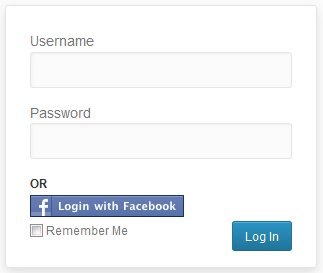
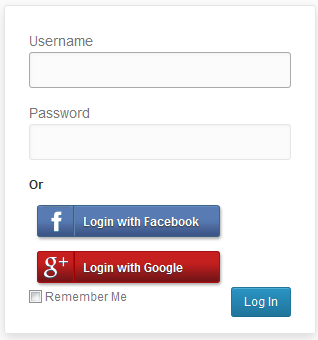
commiting v1.3
git-svn-id: https://plugins.svn.wordpress.org/facebookall/trunk@800958 b8457f37-d9ea-0310-8a92-e5e31aec5664

diff --git a/facebookall_admin.php b/facebookall_admin.php
@@ -93,14 +93,13 @@ function facebookall_save_admin_settings($fball_settings) {
   $fball_settings['facepile_color'] = ((isset($fball_settings['facepile_color']) && in_array($fball_settings['facepile_color'], array('1', '0'))) ? $fball_settings['facepile_color'] : '1');
   $fball_settings['facepile_size'] = ((isset($fball_settings['facepile_size']) && in_array($fball_settings['facepile_size'], array('0', '1', '2'))) ? $fball_settings['facepile_size'] : '1');
   $fball_settings['enable_recbar'] = ((isset($fball_settings['enable_recbar']) && in_array($fball_settings['enable_recbar'], array('1', '0'))) ? $fball_settings['enable_recbar'] : '0');
-  $fball_settings['recbar_pageurl'] = trim($fball_settings['recbar_pageurl']);
   $fball_settings['recbar_readtime'] = trim($fball_settings['recbar_readtime']);
   $fball_settings['recbar_appid'] = trim($fball_settings['recbar_appid']);
-  $fball_settings['recbar_verb'] = ((isset($fball_settings['recbar_verb']) && in_array($fball_settings['recbar_verb'], array('1', '0'))) ? $fball_settings['facepile_color'] : '1');
-  $fball_settings['recbar_side'] = ((isset($fball_settings['recbar_side']) && in_array($fball_settings['recbar_side'], array('0', '1'))) ? $fball_settings['facepile_size'] : '1');
+  $fball_settings['recbar_verb'] = ((isset($fball_settings['recbar_verb']) && in_array($fball_settings['recbar_verb'], array('1', '0'))) ? $fball_settings['recbar_verb'] : '1');
+  $fball_settings['recbar_side'] = ((isset($fball_settings['recbar_side']) && in_array($fball_settings['recbar_side'], array('0', '1'))) ? $fball_settings['recbar_side'] : '1');
 
   
-	foreach(array('loginpage', 'registerpage', 'commentpage', 'comment_top', 'comment_bottom', 'comment_homepage', 'comment_posts', 'comment_pages', 'comment_postecerpts', 'comment_archives', 'comment_feed', 'share_facebook','share_linkedin', 'share_twitter', 'share_pin', 'share_gplus', 'share_digg', 'share_top', 'share_bottom', 'share_home','share_posts', 'share_pages', 'share_postexcerpts', 'share_archives', 'share_feed') as $val){
+	foreach(array('loginpage', 'registerpage', 'commentpage', 'comment_top', 'comment_bottom', 'comment_homepage', 'comment_posts', 'comment_pages', 'comment_postecerpts', 'comment_archives', 'comment_feed', 'share_facebook','share_linkedin', 'share_twitter', 'share_pin', 'share_gplus', 'share_digg', 'share_top', 'share_bottom', 'share_home','share_posts', 'share_pages', 'share_postexcerpts', 'share_archives', 'share_feed', 'rec_posts', 'rec_pages', 'rec_home') as $val){
 		
 	}
 	return $fball_settings;
@@ -117,8 +116,8 @@ function facebookall_admin_settings() {
       <br>
       </div>
       <h2><?php _e('Facebook All Admin Settings', 'facebookall');?></h2><br />
-	  <div style="background-color: #FFFFE0; border:1px solid #E6DB55; padding:5px; margin-bottom:5px; width: 1060px; font-size:13px;">
-			 <?php _e('Please upgrade your plugin with more new feature ...', 'facebookall') ?> <a target="_blank" href="http://www.sourceaddons.com/wp_feature.php" >  <?php _e('click here', 'facebookall') ?> </a>.
+	  <div style=" border:1px solid #f00; padding:5px; margin-bottom:5px; width: 1060px; font-size:13px; font-weight:bold; color:#FF0000;" class="fball_updatemsg_box">
+			 <?php _e('Please upgrade your plugin google login and more new feature ...', 'facebookall') ?> <a target="_blank" href="http://www.sourceaddons.com/" >  <?php _e('click here', 'facebookall') ?> </a>.
 		</div>
       <div id="fballwelcome-panel" class="fballwelcome-panel">
         <div class="fballwelcome-panel-content">
@@ -367,7 +366,7 @@ function facebookall_admin_settings() {
                        </tr>
                       <tr class="fballrow_white">
                        <th scope="fballrow"><?php _e('Post Message','facebookall');?></th>
-                       <td><textarea rows="3" cols="87"  name="fball_settings[new_post_message]" value="<?php echo (isset($fball_settings['new_post_message']) ? htmlspecialchars ($fball_settings['new_post_message']) : ''); ?>"/></textarea></td>
+                       <td><textarea rows="3" cols="87"  name="fball_settings[new_post_message]"><?php echo (isset($fball_settings['new_post_message']) ? htmlspecialchars ($fball_settings['new_post_message']) : ''); ?></textarea></td>
                        </tr>
                        <tr >
                         <th scope="fballrow"><?php _e('Post Picture Url','facebookall');?></th>
@@ -377,7 +376,7 @@ function facebookall_admin_settings() {
                          <tr >
                          <th scope="fballrow"><?php _e('Post Description','facebookall');?></th>
                          <td>
-                         <textarea rows="3" cols="87"  name="fball_settings[new_post_desc]" value="<?php echo (isset($fball_settings['new_post_desc']) ? htmlspecialchars ($fball_settings['new_post_desc']) : ''); ?>"/></textarea></td>
+                         <textarea rows="3" cols="87"  name="fball_settings[new_post_desc]"><?php echo (isset($fball_settings['new_post_desc']) ? htmlspecialchars ($fball_settings['new_post_desc']) : ''); ?></textarea></td>
                         </tr>
                          </table>
 						 <table class="form-table facebookall_table">
@@ -407,7 +406,7 @@ function facebookall_admin_settings() {
                        </tr>
                       <tr class="fballrow_white">
                        <th scope="fballrow"><?php _e('Post Message','facebookall');?></th>
-                       <td><textarea rows="3" cols="87"  name="fball_settings[old_post_message]" value="<?php echo (isset($fball_settings['old_post_message']) ? htmlspecialchars ($fball_settings['old_post_message']) : ''); ?>"/></textarea></td>
+                       <td><textarea rows="3" cols="87"  name="fball_settings[old_post_message]"><?php echo (isset($fball_settings['old_post_message']) ? htmlspecialchars ($fball_settings['old_post_message']) : ''); ?></textarea></td>
                        </tr>
                        <tr >
                         <th scope="fballrow"><?php _e('Post Picture Url','facebookall');?></th>
@@ -417,7 +416,7 @@ function facebookall_admin_settings() {
                          <tr >
                          <th scope="fballrow"><?php _e('Post Description','facebookall');?></th>
                          <td>
-                         <textarea rows="3" cols="87"  name="fball_settings[old_post_desc]" value="<?php echo (isset($fball_settings['old_post_desc']) ? htmlspecialchars ($fball_settings['old_post_desc']) : ''); ?>"/></textarea></td>
+                         <textarea rows="3" cols="87"  name="fball_settings[old_post_desc]"><?php echo (isset($fball_settings['old_post_desc']) ? htmlspecialchars ($fball_settings['old_post_desc']) : ''); ?></textarea></td>
                         </tr>
                          </table>
                          </div>
@@ -693,11 +692,14 @@ function facebookall_admin_settings() {
                          <td><input name="fball_settings[enable_recbar]" type="radio" <?php echo $yesenable_recbar;?>value="1" />&nbsp;&nbsp;<?php _e('Yes','facebookall');?> &nbsp;&nbsp;&nbsp;&nbsp;&nbsp;&nbsp;
                          <input name="fball_settings[enable_recbar]" type="radio" <?php echo $noenable_recbar;?>value="0" />&nbsp;&nbsp;<?php _e('No','facebookall');?></td>
                        </tr>
-						 <tr >
-                        <th scope="fballrow"><?php _e('Domain','facebookall');?></th>
-                         <td><input size="90" type="text" name="fball_settings[recbar_pageurl]" value="<?php echo (isset($fball_settings['recbar_pageurl']) ? htmlspecialchars ($fball_settings['recbar_pageurl']) : ''); ?>"/></td>
-                       </tr>
-                          <tr >
+						 <tr>
+                         <th scope="fballrow"><?php _e('Show Recommendations Bar On', 'facebookall');?></th>
+                         <td>
+                         <input type="checkbox"  name="fball_settings[rec_posts]" value="1" <?php echo isset($fball_settings['rec_posts']) && $fball_settings['rec_posts'] == 1 ? 'checked' : '' ?> /> &nbsp;&nbsp;<label><?php _e('Posts', 'facebookall');?></label><br />
+						 <input type="checkbox"  name="fball_settings[rec_pages]" value="1" <?php echo isset($fball_settings['rec_pages']) && $fball_settings['rec_pages'] == 1 ? 'checked' : '' ?> /> &nbsp;&nbsp;<label><?php _e('Pages', 'facebookall');?></label><br />
+                         <input type="checkbox"  name="fball_settings[rec_home]" value="1" <?php echo isset($fball_settings['rec_home']) && $fball_settings['rec_home'] == 1 ? 'checked' : '' ?> /> &nbsp;&nbsp;<label><?php _e('Home Page', 'facebookall');?></label>
+                        </td>
+                        </tr>                          <tr >
                         <th scope="fballrow"><?php _e('Read Time','facebookall');?></th>
                          <td><input size="90" type="text" name="fball_settings[recbar_readtime]" value="<?php echo (isset($fball_settings['recbar_readtime']) ? htmlspecialchars ($fball_settings['recbar_readtime']) : '30'); ?>"/></td>
                        </tr>

diff --git a/helpers/facebookall_view.php b/helpers/facebookall_view.php
@@ -7,11 +7,11 @@ function facebookall_render_facebook_button() {
   $fball_button = '<div class="fball_ui">
         <div class="fball_form" title="Facebook All">';
 		if (!empty($fball_settings ['custom_button'])) {
-		  $fball_button .= '<a href="javascript:void(0);" title="Login using Facebook" onclick="FbAll.facebookLogin();" class="fball_login_facebook"><img src="'.$fball_settings ['custom_button'].'" style="cursor:pointer;"></a>';
+		  $fball_button .= '<a href="javascript:void(0);" title="Login with Facebook" onclick="FbAll.facebookLogin();" class="fball_login_facebook"><img src="'.$fball_settings ['custom_button'].'" style="cursor:pointer;"></a>';
 		}
 		else {
 		  $fball_button .= '<span id="fball-facebook-login">
-        <a href="javascript:void(0);" title="Login using Facebook" onclick="FbAll.facebookLogin();" class="fball_login_facebook"><span>'.$fball_settings ['fbicon_text'].'</span></a></span>';
+        <a href="javascript:void(0);" title="Login with Facebook" onclick="FbAll.facebookLogin();" class="fball_login_facebook"><span>'.$fball_settings ['fbicon_text'].'</span></a></span>';
 		}
 	$fball_button .= '</div>
         <div id="fball_facebook_auth">
@@ -40,7 +40,8 @@ function facebookall_render_widget_button() {
 		}
 		echo "</div><div style='float:left; margin-left:10px;padding:1px;'>"; 
 		echo $user->user_login;
-		echo '<br/><a href="'.wp_logout_url().'">'; _e('Log Out', 'facebookall');'</a></div></div>'; 
+		echo '<br/><a href="'.wp_logout_url().'">'; _e('Log Out', 'facebookall');
+		echo '</a></div><div style="clear:both;"></div></div>'; 
 	}
 	else {
 	  facebookall_render_facebook_button();
@@ -146,24 +147,23 @@ function facebookall_render_fanbox() {
  */
 function facebookall_render_facepile() {
   $fball_settings = get_option('fball_settings');?>
-<iframe src="//www.facebook.com/plugins/facepile.php?href=<?php echo urlencode($fball_settings['facepile_pageurl'])?>&amp;size=<?php if($fball_settings['facepile_size'] == '0') { echo 'small';}elseif($fball_settings['facepile_size'] == '1') {echo 'medium';}else {echo 'large';}?>&amp;max_rows=<?php echo $fball_settings['facepile_numrows']?>&amp;width=<?php echo $fball_settings['facepile_width']?>&amp;colorscheme=<?php if($fball_settings['facepile_color'] == '1') { echo 'light';}else {echo 'dark';}?>" scrolling="no" frameborder="0" style="border:none; overflow:hidden; width:<?php echo $fball_settings['facepile_width']?>px;" allowTransparency="true"></iframe>
+  <div class="fb-facepile" data-href="<?php echo trim($fball_settings['facepile_pageurl'])?>" data-width="<?php echo $fball_settings['facepile_width']?>" data-max-rows="<?php echo $fball_settings['facepile_numrows']?>" data-colorscheme="<?php if($fball_settings['facepile_color'] == '1') { echo 'light';}else {echo 'dark';}?>" data-size="<?php if($fball_settings['facepile_size'] == '0') { echo 'small';}elseif($fball_settings['facepile_size'] == '1') {echo 'medium';}else {echo 'large';}?>" data-show-count="true"></div>
 <?php }
 
 /*
  * Create recommendations bar.
  */
-function facebookall_render_recommendbar() {
+function facebookall_render_recommendbar($content) {
   $fball_settings = get_option('fball_settings');
-  if ($fball_settings['enable_recbar'] == '1') {
-  ?>
- <div id="fb-root"></div>
-<script>(function(d, s, id) {
-  var js, fjs = d.getElementsByTagName(s)[0];
-  if (d.getElementById(id)) return;
-  js = d.createElement(s); js.id = id;
-  js.src = "//connect.facebook.net/en_US/all.js#xfbml=1&appId=<?php echo $fball_settings['recbar_appid'];?>";
-  fjs.parentNode.insertBefore(js, fjs);
-}(document, 'script', 'facebook-jssdk'));</script>
-<div class="fb-recommendations-bar" data-site="<?php echo $fball_settings['recbar_pageurl'];?>" data-trigger="onvisible" data-read-time="<?php echo $fball_settings['recbar_readtime'];?>" data-action="<?php if($fball_settings['recbar_verb'] == '1') { echo 'like';}else {echo 'recommend';}?>" data-side="<?php if($fball_settings['recbar_side'] == '1') { echo 'left';}else {echo 'right';}?>"></div>
-<?php }}
-add_action('wp_footer','facebookall_render_recommendbar');
+  if ($fball_settings['enable_recbar'] == '1') { 
+  $side = ($fball_settings['recbar_side'] == '1' ? 'left' : 'right');
+  $verb = ($fball_settings['recbar_verb'] == '1' ? 'like' : 'recommend');
+if ((is_single() && $fball_settings['rec_posts'] == '1') ||
+      (is_page() && $fball_settings['rec_pages'] == '1') ||
+      ((is_home() || is_front_page()) && $fball_settings['rec_home'] == '1')) {
+		$content .= "<div class=\"fb-recommendations-bar\" data-href=\"".get_permalink()."\" data-read-time=\"".$fball_settings['recbar_readtime']."\" data-side=\"".$side."\" data-action=\"".$verb."\"></div>";
+     }
+return $content;
+ }
+}
+add_filter ('the_content', 'facebookall_render_recommendbar', 1);

diff --git a/helpers/facebookall_share.php b/helpers/facebookall_share.php
@@ -6,21 +6,14 @@
 function facebookall_get_fb_comments() {
   $fball_settings = get_option('fball_settings');
   if ($fball_settings['enablecomments'] == '1') {
-		  $comment_script = '<div id="fb-root"></div>
-<script>(function(d, s, id) {
-  var js, fjs = d.getElementsByTagName(s)[0];
-  if (d.getElementById(id)) return;
-  js = d.createElement(s); js.id = id;
-  js.src = "//connect.facebook.net/en_US/all.js#xfbml=1&appId='.$fball_settings['comment_appid'].'";
-  fjs.parentNode.insertBefore(js, fjs);
-}(document, "script", "facebook-jssdk"));</script>';
+		  
     $show_comments = '';
       if (!empty($fball_settings['comment_title'])) {
 	    $show_comments .= '<div style="margin:0"><b>'.ucfirst($fball_settings['comment_title']).'</b></div>';
 	  }
    if ($fball_settings['comment_color'] == '0') {$colorscheme = 'dark';}
    else {$colorscheme = 'light';}
-   $show_comments .= $comment_script.'<div class="fb-comments" data-href="'. facebookall_get_current_url() .'" data-width="'.$fball_settings['comment_width'].'" data-num-posts="'.$fball_settings['comment_numpost'].'" data-colorscheme="'.$colorscheme.'"></div>';
+   $show_comments .= '<div class="fb-comments" data-href="'. facebookall_get_current_url() .'" data-width="'.$fball_settings['comment_width'].'" data-num-posts="'.$fball_settings['comment_numpost'].'" data-colorscheme="'.$colorscheme.'"></div>';
    return $show_comments;
   }
   else {
@@ -73,16 +66,18 @@ global $post;
     $output = "";
    
 	//Output
-    $output .= "<style>.fballshare_left {float:left}.fballshare {margin:0px;text-align:center}.fball_fblike{width:95px;}.fball_pinterest, .fball_linkedin, .fball_digg {margin-right:10px;} .fballshare .fball_fblike span{width: 535px!important;}";
+    $output .= "<style>.fballshare_left {float:left}.fballshare {margin:0px;text-align:center}.fball_fblike{width:105px;}.fball_pinterest, .fball_linkedin, .fball_digg {margin-right:10px;} .fballshare .fball_fblike span{width: 535px!important;}";
 	if($layout_style=='1') {
-	$output .= ".fball_plusone {width:70px}.fball_twitter {width:106px}.fball_digg {margin-left:25px}";
+	$output .= ".fball_plusone {width:70px;margin-top:5px;}.fball_twitter {width:90px;margin-top:5px;}.fball_digg {margin-left:25px;margin-top:5px;}.fball_pinterest, .fball_linkedin{margin-top:5px;}";
 	 } 
 	 else {
-	 $output .= ".fball_twitter {width:66px}.fball_plusone {width:62px;margin-left:5px}.fball_pinterest{margin-top:20px}";
+	 $output .= ".fball_fblike{width:70px;margin-top:1px;}.fball_twitter {width:66px;}.fball_plusone {width:62px;margin-left:5px}.fball_pinterest{margin-top:20px}";
 	 }
 	 
 $output .="</style><div class='fballshare'>";
-    
+    if ($fball_settings['share_facebook']== '1' ) {
+	    $output .= "<div class='fball_fblike fballshare_left'><div class='fb-share-button' data-href='" . get_permalink() . "' data-type='" . $like_btn_style . "'></div></div>";
+    }
     if ($fball_settings['share_linkedin']== '1') {
       $output .= "<div class='fball_linkedin fballshare_left'><script type='IN/Share' data-url=" . get_permalink() . " data-counter='" . $linkedin_style . "'></script></div>";
 	  }
@@ -105,16 +100,6 @@ $output .="</style><div class='fballshare'>";
 					})();</script>";
       $output .= "<div class='fball_digg fballshare_left'><a class='DiggThisButton " . $digg_style . "' href='http://digg.com/submit?url='".get_permalink()."'></a></div>";
 	  }
-	  if ($fball_settings['share_facebook']== '1' ) {
-	  $output .= "<script>(function(d){
-					  var js, id = 'facebook-jssdk'; if (d.getElementById(id)) {return;}
-					  js = d.createElement('script'); js.id = id; js.async = true;
-					  js.src = '//connect.facebook.net/en_US/all.js#xfbml=1';
-					  d.getElementsByTagName('head')[0].appendChild(js);
-					}(document));</script>";
-					
-	    $output .= "<div class='fball_fblike fballshare_left'><div class='fb-like' data-href='" . get_permalink() . "' data-send='false' data-layout='" . $like_btn_style . "' data-width='120' data-show-faces='false'></div></div>";
-    }
       $output .="<div style='clear:both'></div></div>";
 	  $sharetitle = '';
 	  if (!empty($fball_settings['share_title'])) {

diff --git a/facebookall.php b/facebookall.php
@@ -2,8 +2,8 @@
 /*
 Plugin Name: Facebook All
 Plugin URI: http://www.sourceaddons.com/
-Description: Allow your visitors to <strong>comment, login, register and share with facebook </strong> also post on their facebook wall.
-Version: 1.2
+Description: Allow your visitors to <strong>comment, login, register and share with facebook and google </strong> also post on their facebook wall.
+Version: 1.3
 Author: sourceaddons
 Author URI: http://www.sourceaddons.com/
 License: GPL2
@@ -44,6 +44,24 @@ function facebookall_front_scripts() {
   wp_print_scripts( "connect_js" );
   //wp_enqueue_script('connect_js');
 }
+
+function facebookall_fbmlsetup() {
+  $fball_settings = get_option('fball_settings');
+  if (!empty($fball_settings['apikey']) || !empty($fball_settings['recbar_appid']) || !empty($fball_settings['comment_appid'])) {
+    $appid = (!empty($fball_settings['apikey']) ? $fball_settings['apikey'] : $fball_settings['comment_appid']);
+    $appid = (!empty($appid) ? $appid : $fball_settings['recbar_appid']);
+  }?>
+<div id="fb-root"></div>
+<script>(function(d, s, id) {
+  var js, fjs = d.getElementsByTagName(s)[0];
+  if (d.getElementById(id)) return;
+  js = d.createElement(s); js.id = id;
+  js.src = "//connect.facebook.net/en_US/all.js#xfbml=1&appId=<?php echo $appid; ?>";
+  fjs.parentNode.insertBefore(js, fjs);
+}(document, 'script', 'facebook-jssdk'));</script>
+<?php }
+add_action('wp_head', 'facebookall_fbmlsetup', 100);
+
 add_action ('login_head', 'facebookall_front_scripts');
 add_action ('wp_head', 'facebookall_front_scripts');
 
